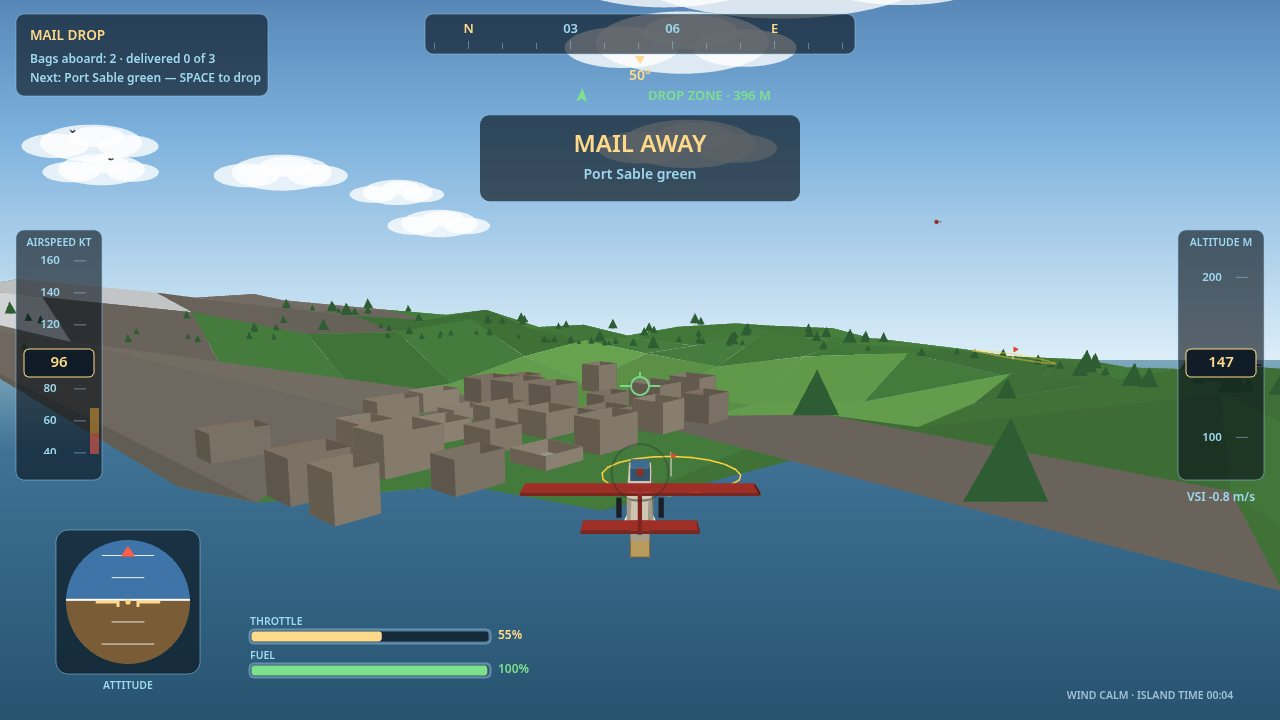
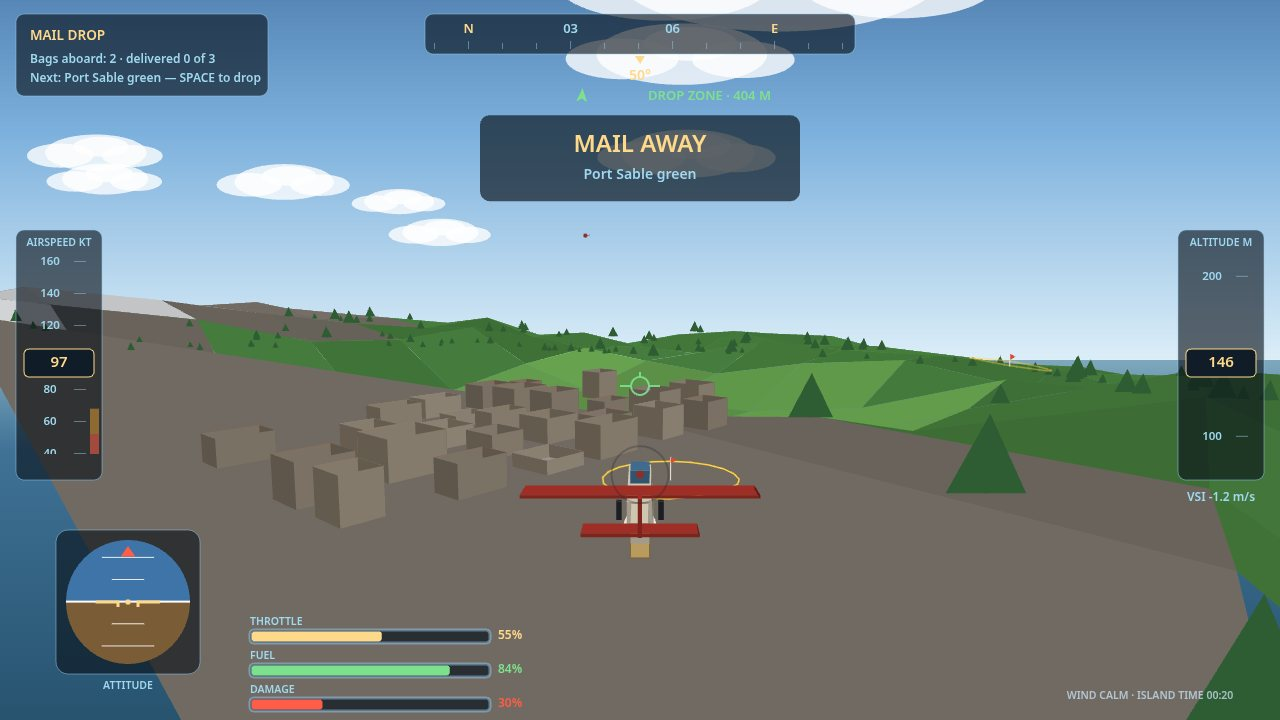
Phase 2 cycle 3: pit stop trade-off, damage state on the panel shot
From the third judge critique (verification round — verdict: the
entry still beats the generic rival; the cue, tape bands, roofs and
bag all register):

- Pit stop (criterion 2): a full stop on the strip mid-circuit now
  trades 25 s of clock for a refuel and a full repair. Fuel and
  damage stop being pure penalties and become a route decision —
  worth it after a bent arrival, a lead thrown away if not. Verified
  headlessly: staged damage 55 / fuel 40 came back 0 / 100 with the
  sortie still flying, and the circuit then completed at 1166
  against 1271 unserviced, the clock cost visible in the score.
  Briefing and README say so in as many words.
- Mail screenshot re-staged with the airframe state on the panel
  (FUEL 84%, DAMAGE 30% bars lit), so the sheet itself shows the
  depth systems the earlier rounds could only describe.

Final gates: dossier deterministic at 485,416 bytes (<= 1.5 MiB),
game/ 13 files / 99,661 bytes, index.html < 1 MiB, zero network
references, screenshots 4 x 1280x720 each <= 256 KiB, vendor file
byte-identical to the kit.

diff --git a/game/js/missions.js b/game/js/missions.js
@@ -23,6 +23,8 @@ export const SORTIES = [
       'The clock runs from the first ring. Rings 4 and 8 hug',
       'the volcano shoulders and ring 10 grazes the ridge:',
       'thread those gently, and land home for the full score.',
+      'Bent or thirsty? A pit stop on the strip repairs and',
+      'refuels — and costs 25 seconds of clock.',
     ],
     spawn: { x: 0, y: 175, z: 2150, yaw: 0, speed: 58, throttle: 0.6 },
     weather: FAIR,
@@ -271,6 +273,22 @@ export class Mission {
   }
 
   updateGates(plane) {
+    // The pit stop: a full stop on the strip before the last ring is
+    // a trade — the crew refuels and patches the airframe, and the
+    // clock takes 25 s for it. Worth it after a bent arrival or a
+    // thirsty first half; a detour that costs the lead if it is not.
+    if (this.nextGate < GATES.length && plane.onGround && plane.overRunway() && plane.speed < 4) {
+      if (!this.pitDone) {
+        this.pitDone = true;
+        this.elapsed += 25;
+        plane.fuel = 100;
+        plane.damage = 0;
+        this.sound.gate();
+        this.popup('PIT STOP', 'refuelled and patched — 25 s on the clock');
+      }
+    } else if (!plane.onGround) {
+      this.pitDone = false;
+    }
     if (this.nextGate < GATES.length) {
       const g = GATES[this.nextGate];
       const d = Math.hypot(plane.x - g.x, plane.y - g.y, plane.z - g.z);

diff --git a/README.md b/README.md
@@ -8,7 +8,7 @@ An original chase-view flight game for the make.fun [best flight game](https://m
 
 ## The sorties
 
-1. **Gate Circuit** — 12 rings around the island against the clock; the clock starts at the first ring, and the full score needs a landing back on the strip. Rings 4 and 8 hug the volcano's shoulders and ring 10 grazes the south-west ridge, so the route alternates high cruising with thread-the-needle flying.
+1. **Gate Circuit** — 12 rings around the island against the clock; the clock starts at the first ring, and the full score needs a landing back on the strip. Rings 4 and 8 hug the volcano's shoulders and ring 10 grazes the south-west ridge, so the route alternates high cruising with thread-the-needle flying. A mid-circuit pit stop on the strip trades 25 s of clock for fuel and repairs.
 2. **Mail Drop** — 3 mail bags for 3 painted circles (the town green, the south farm, the lighthouse point). Bags keep the plane's speed and fall under a canopy: lead the target, score by the metre.
 3. **Carrier Landing** — one 300 m deck, a yellow touchdown box, judged on centreline deviation, touchdown zone and sink rate.
 4. **Storm Rescue** — a fishing boat dead in a dusk storm south-east of the island. Weather is a system here, not a skin: rain, fog, a steady westerly drift and gusts that shove the nose and rock the wings. Find her by her red flare, drop the supply raft alongside (scored by the metre), then get home and land — on the strip, or, bravely, on the deck.
